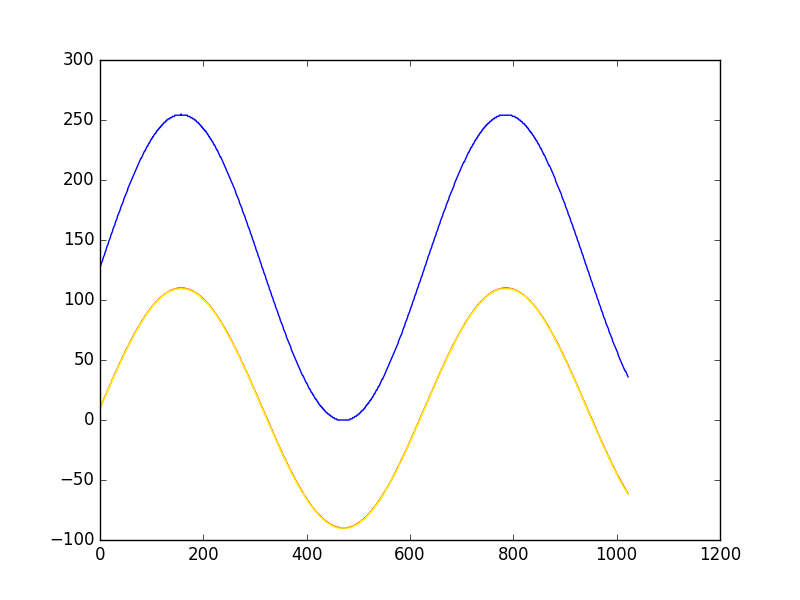
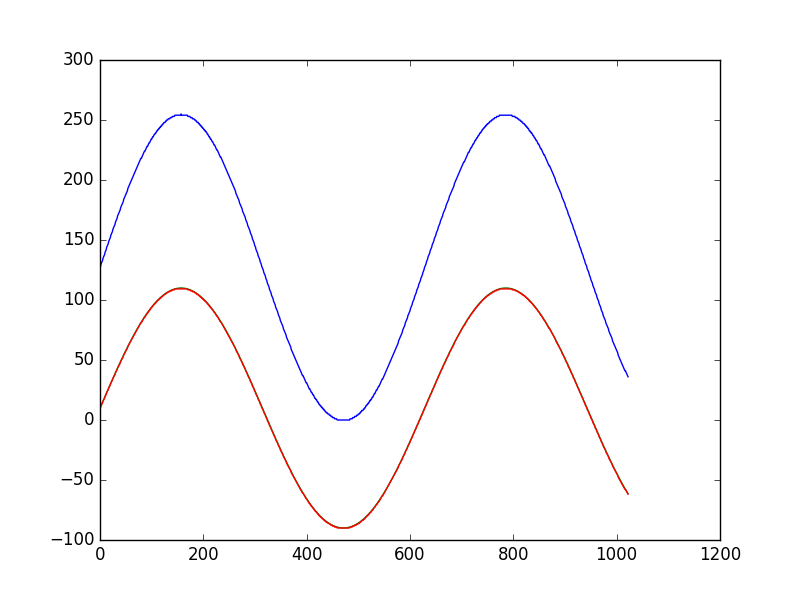
動いていないがcommit

diff --git a/python_ref/q_inv.py b/python_ref/q_inv.py
@@ -4,12 +4,12 @@ import npu
 import matplotlib.pyplot as plt
 
 
-def save_img(fname, V, q_V, deq_V, n = 1):
+def save_img(fname: object, V: object, q_V: object, deq_V: object, n: object = 1) -> object:
     x = np.arange(0, 1023)
     plt.figure(n)
-    plt.plot(x, V, color="r")
+    plt.plot(x, V, color="green")
     plt.plot(x, q_V, color="b")
-    plt.plot(x, deq_V, color="yellow")
+    plt.plot(x, deq_V, color="r")
     plt.savefig(fname)
 
 
@@ -30,15 +30,11 @@ save_img('lin.png', A, q_A, deq_A)
 save_img('sin.png', B, q_B, deq_B, n=2)
 
 # inv
-q_Ainv = npu.q_inv(q_A)
-a_inv_min = - a_max
-a_inv_max = - a_min
+q_Ainv, a_inv_min, a_inv_max = npu.q_inv(q_A, a_min, a_max)
 deq_Ainv = npu.deQuantize(q_Ainv, a_inv_min, a_inv_max)
 save_img('lin_inv.png', A, q_Ainv, deq_Ainv, n=3)
 
-q_Binv = npu.q_inv(q_B)
-b_inv_min = - b_max
-b_inv_max = - b_min
+q_Binv, b_inv_min, b_inv_max = npu.q_inv(q_B, b_min, b_max)
 deq_Binv = npu.deQuantize(q_Binv, b_inv_min, b_inv_max)
 save_img('sin_inv.png', B, q_Binv, deq_Binv, n=4)
 

diff --git a/python_ref/q_add.py b/python_ref/q_add.py
@@ -1,0 +1,37 @@
+import numpy as np
+import npu
+import matplotlib.pyplot as plt
+
+
+def save_img(fname, V, q_V, deq_V, n = 1):
+    x = np.arange(0, 1023)
+    plt.figure(n)
+    plt.plot(x, V, color="green")
+    plt.plot(x, q_V, color="b")
+    plt.plot(x, deq_V, color="r")
+    plt.savefig(fname)
+
+
+A = np.arange(0, 1023, 1.0) + 50
+a_min = 50.0
+a_max = 1024+50.0
+q_A = npu.Quantize(A, a_min, a_max)
+deq_A = npu.deQuantize(q_A,a_min, a_max)
+
+B = 100 * np.sin(np.arange(0, 1023, 1.0) / 100) + 10
+b_min = np.min(B)
+b_max = np.max(B)
+q_B = npu.Quantize(B, b_min, b_max)
+deq_B = npu.deQuantize(q_B, b_min, b_max)
+
+# 定数の加算
+b_min2 = b_min + 50
+b_max2 = b_max + 50
+deq_B = npu.deQuantize(q_B, b_min2, b_max2)
+save_img('const_add.png', B, q_B, deq_B)
+
+# Add
+C = A + B
+q_C, c_min, c_max = npu.q_add(q_A, a_min, a_max, q_B, b_min, b_max)
+deq_C = npu.deQuantize(q_C, c_min, c_max)
+save_img('add.png', C, q_C, deq_C, n=2)

diff --git a/python_ref/npu.py b/python_ref/npu.py
@@ -18,9 +18,9 @@ def Quantize(arr, min, max):
     return ((arr - min) / range_scale).astype(np.int)
 
 
-def q_inv(a_qt):
+def q_inv(a_qt, a_min, a_max):
     """符号反転"""
-    return MAX_VALUE - a_qt
+    return MAX_VALUE - a_qt, - a_max, - a_min
 
 
 def q_add(a_qt, a_min, a_max, b_qt, b_min, b_max):
@@ -29,8 +29,11 @@ def q_add(a_qt, a_min, a_max, b_qt, b_min, b_max):
     min = a_min + b_min
     max = a_max + b_max
     c_qt = b_qt * gain + a_qt
-    q_param = (max - min) / MAX_VALUE
-    c_qt /= q_param
+    x = np.max(c_qt) - np.min(c_qt)
+    q_param = x / MAX_VALUE
+
+    c_qt *= q_param
+
 
     return c_qt, min, max
 
